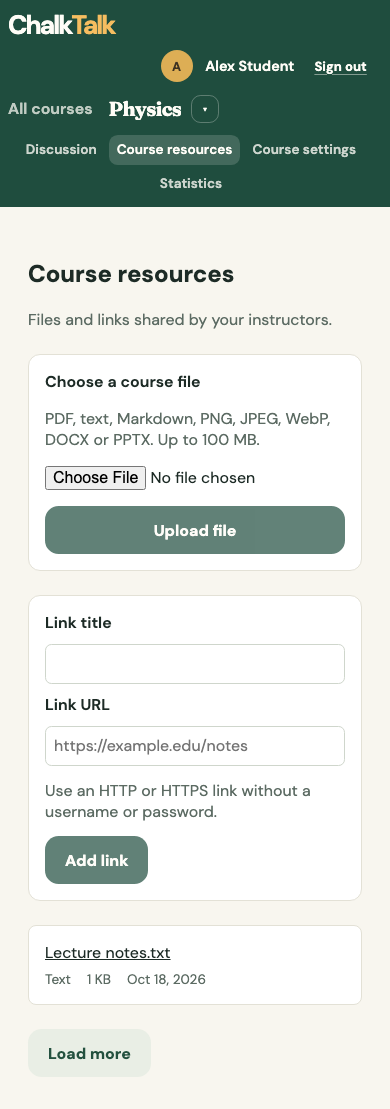
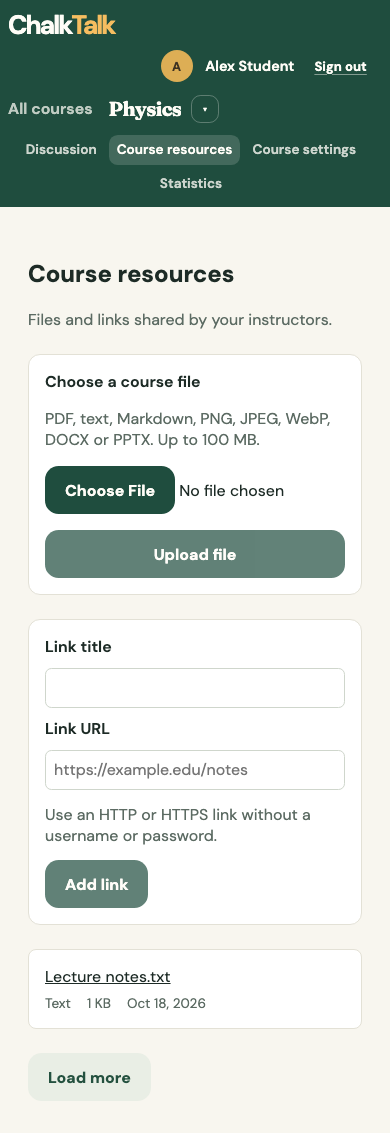
Match Resources Choose File to Add link styling

diff --git a/apps/web/src/course-files/styles.css b/apps/web/src/course-files/styles.css
@@ -96,3 +96,30 @@
   border-radius: var(--radius-lg);
   padding: var(--space-3) var(--space-5);
 }
+
+.course-files input[type="file"]::file-selector-button {
+  background: var(--accent);
+  color: #fffdf7;
+  border: 0;
+  border-radius: var(--radius-lg);
+  font: inherit;
+  font-weight: 700;
+  min-height: 3rem;
+  padding: var(--space-3) var(--space-5);
+  cursor: pointer;
+  transition:
+    background 0.16s,
+    transform 0.16s;
+}
+.course-files input[type="file"]:hover:not(:disabled)::file-selector-button {
+  background: var(--accent-hover);
+  transform: translateY(-1px);
+}
+.course-files input[type="file"]:focus-visible {
+  outline: 3px solid var(--focus);
+  outline-offset: 3px;
+}
+.course-files input[type="file"]:disabled::file-selector-button {
+  cursor: wait;
+  opacity: 0.7;
+}

diff --git a/openspec/specs/course-resource-links/spec.md b/openspec/specs/course-resource-links/spec.md
@@ -42,8 +42,12 @@ The Resources interface SHALL show one flat mixed list without categories or sec
 - **THEN** the filename downloads original bytes and the link opens its URL safely in a new tab
 
 ### Requirement: Consistent Resources action button shape and spacing
-Course Resources Upload file, Add link, Try again and Load more buttons SHALL use radius-lg (0.85rem), vertical space-3 (0.75rem) and horizontal space-5 (1.25rem) at desktop and mobile sizes. Existing primary/secondary colors, minimum height, focus behavior and action semantics SHALL remain unchanged. Filename downloads and named external links SHALL remain links without separate Download buttons. Native file chooser styling SHALL remain unchanged.
+Course Resources Upload file, Add link, Try again and Load more buttons SHALL use radius-lg (0.85rem), vertical space-3 (0.75rem) and horizontal space-5 (1.25rem) at desktop and mobile sizes. Existing primary/secondary colors, minimum height, focus behavior and action semantics SHALL remain unchanged. Filename downloads and named external links SHALL remain links without separate Download buttons. The native Browse/Choose File button SHALL match Add link primary background, foreground, border, font, radius, padding, minimum height and hover/focus/disabled feedback. The accessible labeled real file input, click and keyboard picker behavior, accept filter and disabled state SHALL remain unchanged.
 
 #### Scenario: Desktop and mobile action controls
 - **WHEN** an instructor views Resources and retries a failed list request or loads another page at desktop or mobile width
 - **THEN** all visible action buttons have the specified corners and padding with their existing colors and no horizontal page overflow
+
+#### Scenario: Native file picker at desktop and mobile sizes
+- **WHEN** an instructor clicks or uses the keyboard to activate the labeled course-file input
+- **THEN** the native chooser opens, selecting a supported file enables upload, the native button matches Add link visual treatment in normal, hover, keyboard-focus and disabled states, and the page has no horizontal overflow

diff --git a/openspec/changes/archive/2026-10-19-match-resource-file-picker-to-add-link/specs/course-resource-links/spec.md b/openspec/changes/archive/2026-10-19-match-resource-file-picker-to-add-link/specs/course-resource-links/spec.md
@@ -1,0 +1,12 @@
+## MODIFIED Requirements
+
+### Requirement: Consistent Resources action button shape and spacing
+Course Resources Upload file, Add link, Try again and Load more buttons SHALL use radius-lg (0.85rem), vertical space-3 (0.75rem) and horizontal space-5 (1.25rem) at desktop and mobile sizes. Existing primary/secondary colors, minimum height, focus behavior and action semantics SHALL remain unchanged. Filename downloads and named external links SHALL remain links without separate Download buttons. The native Browse/Choose File button SHALL match Add link primary background, foreground, border, font, radius, padding, minimum height and hover/focus/disabled feedback. The accessible labeled real file input, click and keyboard picker behavior, accept filter and disabled state SHALL remain unchanged.
+
+#### Scenario: Desktop and mobile action controls
+- **WHEN** an instructor views Resources and retries a failed list request or loads another page at desktop or mobile width
+- **THEN** all visible action buttons have the specified corners and padding with their existing colors and no horizontal page overflow
+
+#### Scenario: Native file picker at desktop and mobile sizes
+- **WHEN** an instructor clicks or uses the keyboard to activate the labeled course-file input
+- **THEN** the native chooser opens, selecting a supported file enables upload, the native button matches Add link visual treatment in normal, hover, keyboard-focus and disabled states, and the page has no horizontal overflow

diff --git a/openspec/changes/archive/2026-10-19-restyle-native-resource-file-picker/specs/course-resource-links/spec.md b/openspec/changes/archive/2026-10-19-restyle-native-resource-file-picker/specs/course-resource-links/spec.md
@@ -1,0 +1,12 @@
+## MODIFIED Requirements
+
+### Requirement: Consistent Resources action button shape and spacing
+Course Resources Upload file, Add link, Try again and Load more buttons SHALL use radius-lg (0.85rem), vertical space-3 (0.75rem) and horizontal space-5 (1.25rem) at desktop and mobile sizes. Existing primary/secondary colors, minimum height, focus behavior and action semantics SHALL remain unchanged. Filename downloads and named external links SHALL remain links without separate Download buttons. The native Browse/Choose File button SHALL use the same radius and padding while retaining its native foreground/background/border, accessible labeled file input, click and keyboard picker behavior, accept filter and disabled state.
+
+#### Scenario: Desktop and mobile action controls
+- **WHEN** an instructor views Resources and retries a failed list request or loads another page at desktop or mobile width
+- **THEN** all visible action buttons have the specified corners and padding with their existing colors and no horizontal page overflow
+
+#### Scenario: Native file picker at desktop and mobile sizes
+- **WHEN** an instructor clicks or uses the keyboard to activate the labeled course-file input
+- **THEN** the native chooser opens, selecting a supported file enables upload, the native button uses the approved corners/padding with unchanged native colors/border, and the page has no horizontal overflow

diff --git a/openspec/changes/archive/2026-10-19-match-resource-file-picker-to-add-link/design.md b/openspec/changes/archive/2026-10-19-match-resource-file-picker-to-add-link/design.md
@@ -1,0 +1,11 @@
+## Context
+The native file selector already has approved radius/padding but retains gray platform colors and font. Add link is an existing primary button.
+
+## Goals / Non-Goals
+Use the same accent background, warm-white foreground, borderless bold inherited font, radius/padding and minimum height as Add link. Match hover background/translation, visible keyboard focus and disabled opacity/cursor. Keep the actual labeled native file input, accept formats, disabled state and click/Enter picker.
+
+## Decisions
+Scope every selector under `.course-files`. Style the native `::file-selector-button`; do not introduce a fake control, change labels or move controls. Use existing accent, accent-hover, focus, radius and spacing tokens. Focus outline belongs to the real input to preserve keyboard feedback.
+
+## Risks / Trade-offs
+Browser-native file controls vary, so compare computed visual properties against Add link in real Chromium at desktop/mobile widths and exercise actual native click/Enter filechooser and upload progress.

diff --git a/openspec/changes/archive/2026-10-19-restyle-native-resource-file-picker/design.md b/openspec/changes/archive/2026-10-19-restyle-native-resource-file-picker/design.md
@@ -1,0 +1,11 @@
+## Context
+The prior refinement deliberately left the native chooser unchanged; the user now explicitly includes it. The existing labeled native file input remains the right interaction.
+
+## Goals / Non-Goals
+Apply radius-lg and space-3/space-5 padding to only `.course-files input[type="file"]::file-selector-button`. Preserve native foreground/background/border and existing input font, picker, accept filter, disabled behavior and keyboard accessibility. Do not replace with a fake control or change discussion inputs/global CSS.
+
+## Decisions
+Set only border-radius and padding on the scoped native pseudo-element. Compare computed colors/border to an unstyled native input in Chromium rather than hardcoding platform colors. Test actual click and keyboard filechooser operation at desktop/mobile sizes.
+
+## Risks / Trade-offs
+The chooser grows but the existing responsive input layout accommodates it. Assert no horizontal overflow and capture screenshots before and after choosing a file.

diff --git a/openspec/changes/archive/2026-10-19-match-resource-file-picker-to-add-link/proposal.md b/openspec/changes/archive/2026-10-19-match-resource-file-picker-to-add-link/proposal.md
@@ -1,0 +1,14 @@
+## Why
+The user confirmed: “Yes, style Choose File like Add link.” This supersedes preserving native platform colors.
+
+## What Changes
+- Match the real Resources Choose File control to Add link primary colors, border, font, geometry and hover/focus/disabled feedback.
+- Retain accessible native picker behavior and all existing upload/list/link actions.
+
+## Capabilities
+### New Capabilities
+### Modified Capabilities
+- `course-resource-links`: Native file picker matches Add link visual treatment.
+
+## Impact
+Resources-only CSS, browser tests and screenshots; no global/discussion styles, labels, layout redesign or backend changes.

diff --git a/openspec/changes/archive/2026-10-19-restyle-native-resource-file-picker/proposal.md b/openspec/changes/archive/2026-10-19-restyle-native-resource-file-picker/proposal.md
@@ -1,0 +1,14 @@
+## Why
+The user clarified that the native Browse/Choose File button also needs the approved rounded, padded styling.
+
+## What Changes
+- Extend Resources-only radius and padding to the native file-selector-button.
+- Preserve its existing colors, native picker and accessible labeled file input.
+
+## Capabilities
+### New Capabilities
+### Modified Capabilities
+- `course-resource-links`: Include the native file chooser button in the approved shape and spacing.
+
+## Impact
+Resources CSS, real-browser tests and screenshots only. No globals, backend, custom picker, layout redesign or link changes.

diff --git a/openspec/changes/archive/2026-10-19-restyle-native-resource-file-picker/tasks.md b/openspec/changes/archive/2026-10-19-restyle-native-resource-file-picker/tasks.md
@@ -1,0 +1,4 @@
+## 1. Refine native picker without replacing it
+- [x] 1.1 Add desktop/mobile native pseudo-style, click and keyboard picker assertions; run RED on existing styling.
+- [x] 1.2 Apply scoped corners/padding only; run all Resources browser regressions GREEN and capture screenshots.
+- [x] 1.3 Run lint/typecheck/format/build/OpenSpec checks, visually inspect evidence and archive the change.

diff --git a/openspec/changes/archive/2026-10-19-match-resource-file-picker-to-add-link/tasks.md b/openspec/changes/archive/2026-10-19-match-resource-file-picker-to-add-link/tasks.md
@@ -1,0 +1,4 @@
+## 1. Match primary button treatment
+- [x] 1.1 Replace native-color assertions with Add link visual-state comparisons and run RED.
+- [x] 1.2 Apply scoped native primary styling; run full real-browser Resources regressions GREEN and capture desktop/mobile state screenshots.
+- [x] 1.3 Run checks, inspect evidence, sync/archive specification .
